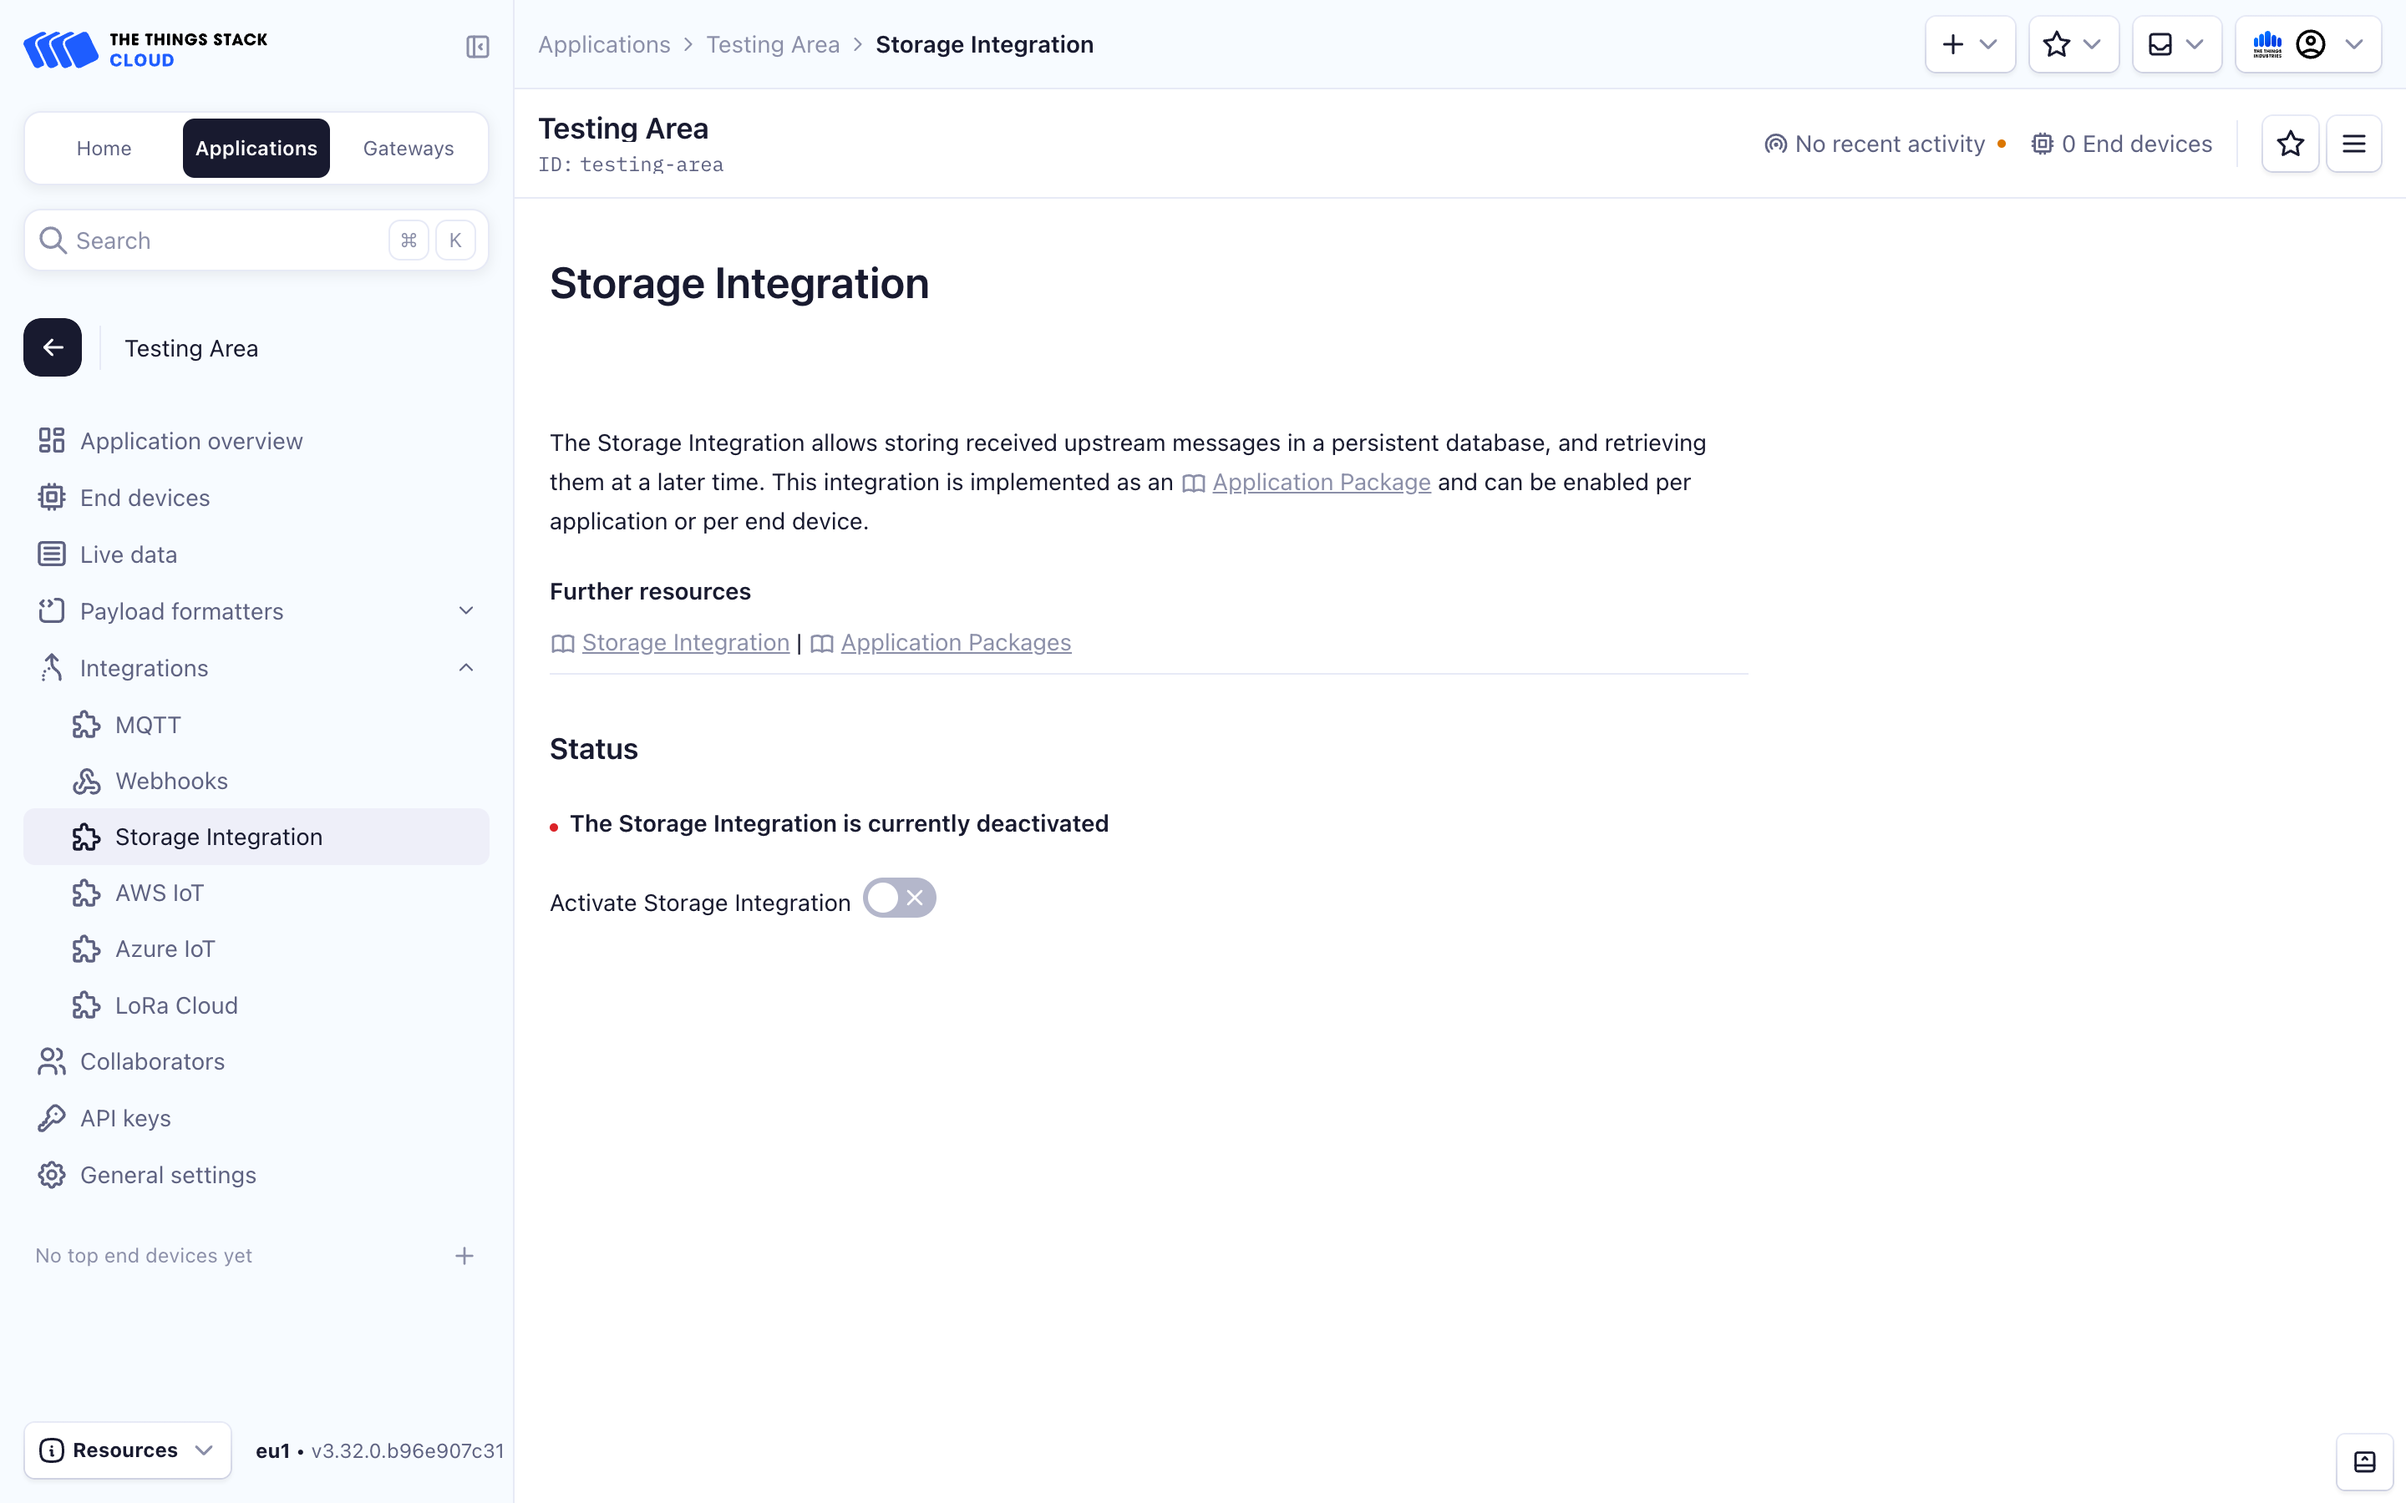
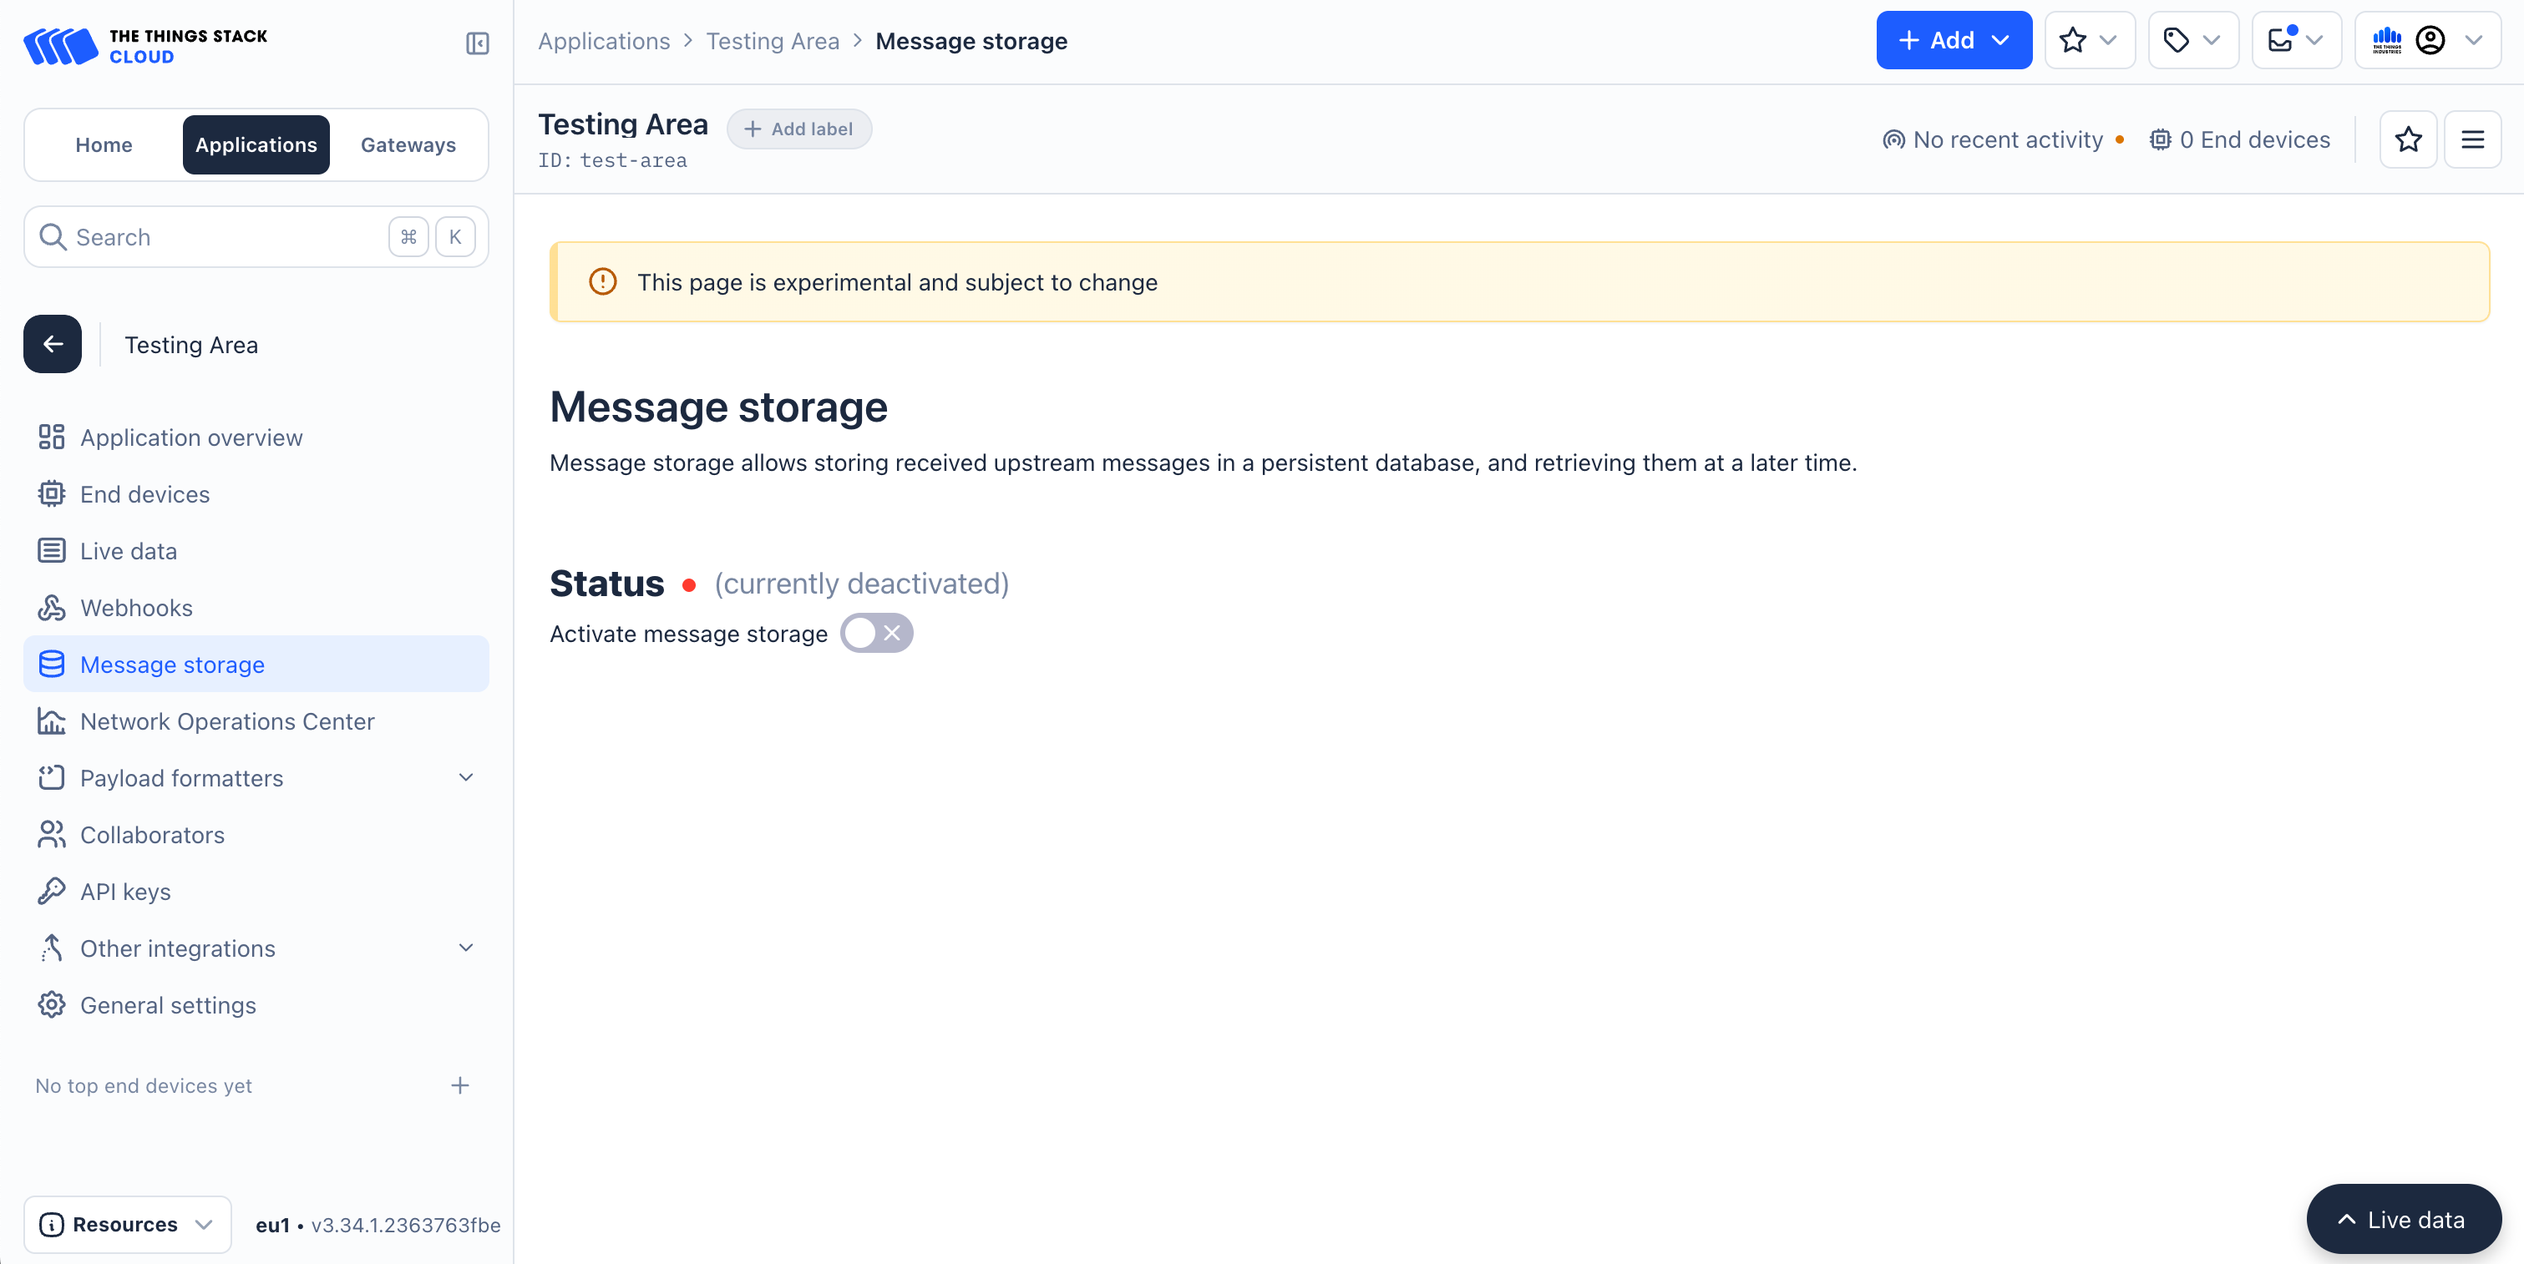
doc: Expand storage integration page content (#1434)

diff --git a/doc/content/integrations/storage/_index.md b/doc/content/integrations/storage/_index.md
@@ -14,21 +14,53 @@ The Storage Integration is implemented as an Application Package, and can be ena
 
 ## How it works
 
-The Storage Integration runs on the Application Server and watches for upstream traffic (join requests, data uplink message, data downlink message, etc). When an upstream message is received from an end device for which the integration has been configured, the message data (Payload, FPort, Decoded Fields, as well as all relevant metadata) are written in a persistent database.
+The Storage Integration runs on the Application Server and watches for upstream traffic (join requests, data uplink messages, data downlink messages, etc). When an upstream message is received from an end device for which the integration has been configured, the message data (Payload, FPort, Decoded Fields, as well as all relevant metadata) are written to a persistent database.
 
 Data retention period is 30 days for {{% tts %}} Cloud and 24 hours for {{% ttss %}} distributions. For {{% tts %}} Enterprise distributions, data retention period can be [configured]({{< ref "/integrations/storage/configuration" >}}).
 
 A gRPC service and an HTTP API are exposed so that stored messages can then be retrieved.
 
-{{< note >}} {{% tts %}} Cloud stores only uplink messages. {{</ note >}}
+{{< note >}}
+{{% tts %}} Cloud stores only uplink messages.
+{{</ note >}}
 
 {{< warning >}}
 The Storage Integration should not be used for querying realtime data. For scalability reasons, writes to the Storage Integration database are performed in batches and there may be a delay after an uplink is received, before it is available. For realtime alerts, use [Webhooks]({{< ref "integrations/webhooks" >}}).
 {{</ warning >}}
 
-## Typical use cases
+---
+
+## Viewing stored messages {{< new-in-version "3.34.1">}}
+
+The Console offers a view for checking the Storage Integration status and displays recently stored messages.
+
+{{< figure src="enable/activated-storage-integration.png" alt="Activated storage integration" >}}
+
+This view allows filtering by end device and time range, and displays stored messages along with decoded payloads and metadata.
+
+{{< note >}}
+For performance reasons, only the first 10 results are shown in the Console.
+{{</ note >}}
+
+---
+
+## Downloading messages
+
+The Console allows you to download the **messages currently displayed in the table** view. This provides a quick way to extract and inspect recent stored messages.
+
+{{< figure src="download-stored-messages.png" alt="Download stored messages" >}}
+
+Click the **Download** button to download the visible messages in one of the following formats:
+
+- **JSON**: Ideal for programmatic access or integration with other systems.
+- **CSV**: Convenient for spreadsheets, quick inspection, or basic analysis.
+
+---
+
+## Typical use cases  
 
 - Long-term storage of historical data for end-devices.
+- Reliable message persistence for low-frequency or offline-capable devices.
 - No need to maintain a connection with {{% tts %}} at all times, e.g. for end devices that send messages infrequently.
 
 Detailed instructions about storage integration are in the topics below.
